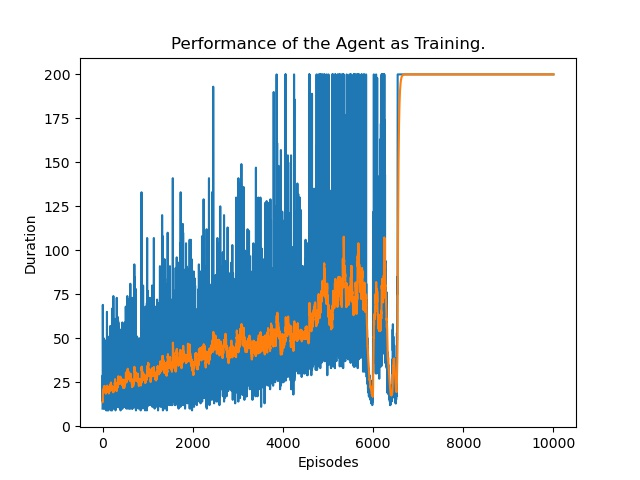
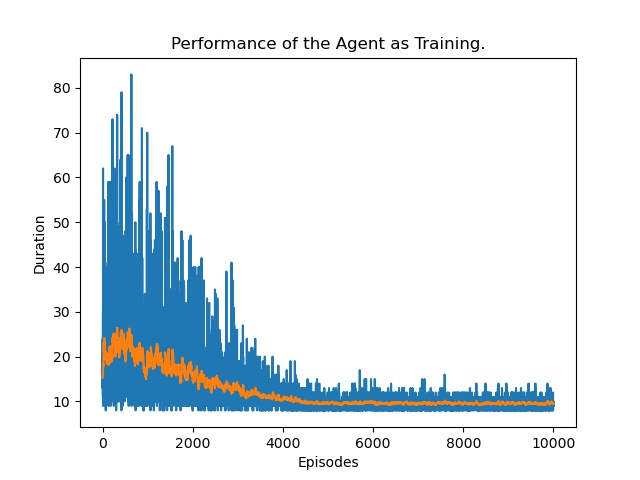
seed trial

diff --git a/train_DQN.py b/train_DQN.py
@@ -1,6 +1,6 @@
 import gym
+import torch
 from Agent import Agent
-from vars import *
 import matplotlib.pyplot as plt
 import copy
 from statsmodels.tsa.api import SimpleExpSmoothing
@@ -9,6 +9,7 @@ import json
 
 parser = argparse.ArgumentParser(description='Please provide the config file.')
 parser.add_argument('-config', type=str, help='the path to the config file')
+parser.add_argument('-seed', type=int, help='the path to the config file')
 args = parser.parse_args()
 with open(args.config) as f:
     config = json.load(f)
@@ -16,13 +17,15 @@ with open(args.config) as f:
 env = gym.make('CartPole-v0')
 input_dim = env.observation_space.shape[0]
 output_dim = env.action_space.n
-agent = Agent(seed=1423,  
+agent = Agent(seed=args.seed,
     layer_sizes=[input_dim, config['hidden_layer_size'], output_dim], 
     lr=config['lr'], 
     sync_freq=config['sync_freq'], 
     exp_replay_size=config['exp_replay_size'],
     gamma=config['gamma'])
 agent.initialize(env)
+if args.reg is not None:
+    agent.q_net.load_state_dict(torch.load('models/agent_normal.pth'))
 
 durations = []
 index = config['exp_replay_size'] / 2
@@ -49,9 +52,9 @@ for i in range(config['n_episodes']):
                 loss.backward(retain_graph=True)
                 agent.optimizer.step()
 
-    if i % 100 == 0:         
-        print(f'episode {i}, q_loss: {q_loss.item()}, reg_loss: {reg_loss.item() if reg_loss is not None else None}')
-        pass
+    # if i % 100 == 0:         
+    #     print(f'episode {i}, q_loss: {q_loss.item()}, reg_loss: {reg_loss.item() if reg_loss is not None else None}')
+    #     pass
 
     if epsilon > config['eps_end']:
         epsilon -= (1 / config['eps_decay'])
@@ -78,5 +81,5 @@ for i in range(1000):
         obs, reward, done, _ = env.step(A.item())
         r += 1
 
-print(f"Try 1000 episodes. Average reward is {r / 1000}.")
+print(f"Seed: {args.seed}. Try 1000 episodes. Average reward is {r / 1000}.")
 agent.save(config['savepath'])
